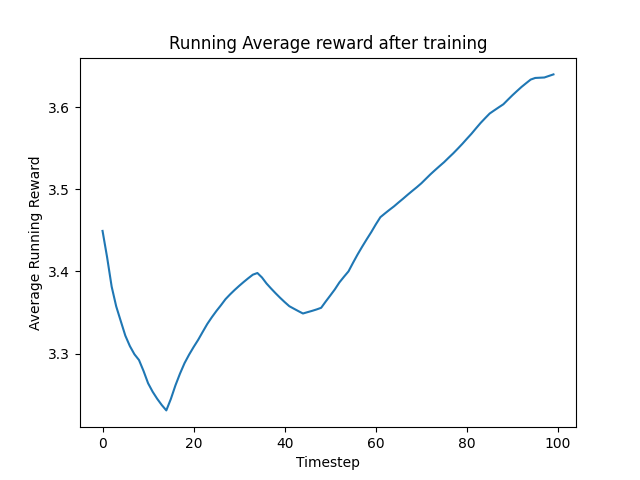
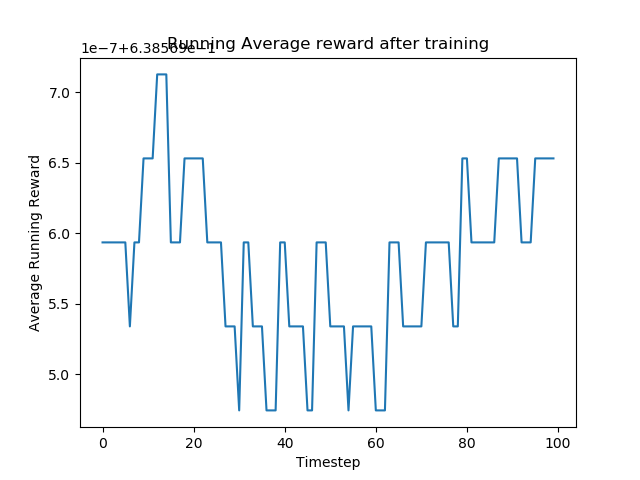
save model and reward function

diff --git a/src/main/agents/dqn_agent.py b/src/main/agents/dqn_agent.py
@@ -24,20 +24,29 @@ def train_dqn(env, train_steps=2000):
     # env = Monitor(env, "./logs")
     model = DQN(MlpPolicy, env=env, _init_setup_model=True, verbose=1, exploration_fraction=0.1,
                 tensorboard_log=log_dir)
-    # evaluate before training
-    _, all_rewards = evaluate(model)
-    plot_moving_avg(np.array(all_rewards), title="Running Average reward before training - DQN")
+    # # evaluate before training
+    # _, all_rewards = evaluate(model)
+    # plot_moving_avg(np.array(all_rewards), title="Running Average reward before training - DQN")
 
     start = time.time()
     model.learn(total_timesteps=train_steps)
     end = time.time()
     print("Training Time: {}".format(end - start))
 
-    model.save("./saved_models/dqn")
+    model.save("./saved_models/dqn", cloudpickle=True)
 
     # evaluate after training
+    print("EVALUATING AGENT")
     start = time.time()
     _, all_rewards = evaluate(model)
+    end = time.time()
+    print("Running time per episode: {}".format((end - start) / 100))
+
+    print("From saved model")
+    model = DQN.load("./saved_models/dqn", env=env)
+
+    start = time.time()
+    _, all_rewards = evaluate(model, num_episodes=100)
     end = time.time()
     print("Running time per time step: {}".format((end - start) / 100))
 

diff --git a/src/main/agents/a2c_agent.py b/src/main/agents/a2c_agent.py
@@ -12,7 +12,7 @@
 
 # from stable_baselines.common.vec_env import DummyVecEnv
 # from stable_baselines.deepq.policies import MlpPolicy, CnnPolicy
-from stable_baselines.common.policies import MlpPolicy
+from stable_baselines.common.policies import MlpPolicy, ActorCriticPolicy
 from stable_baselines import DQN, A2C
 from src.main.env.environment import Environment
 # from stable_baselines.bench import Monitor
@@ -46,6 +46,15 @@ def train_a2c(env, train_steps=1000):
     end = time.time()
     print("Running time per time step: {}".format((end - start) / 100))
     # print(all_rewards)
+
+    print("From saved model")
+    model = A2C.load("./saved_models/dqn", env=env)
+    model.setup_model()
+
+    start = time.time()
+    _, all_rewards = evaluate(model, num_episodes=100)
+    end = time.time()
+    print("Running time per time step: {}".format((end - start) / 100))
 
     plot_moving_avg(np.array(all_rewards), title="Running Average reward after training")
 

diff --git a/src/main/agents/final_actions.py b/src/main/agents/final_actions.py
@@ -10,6 +10,7 @@
 from stable_baselines import DQN, A2C, PPO2
 from src.main.util.model_utils import evaluate
 from src.main.env.environment import Environment
+import time
 
 
 def test_rl_agent(agent, environment):
@@ -25,11 +26,10 @@ if __name__ == '__main__':
     print("INPUTS: {}".format(obs))
     done = False
 
-    while not done:
-        action, _states = model.predict(obs)
-        next_obs, reward, done, info = env.step(action)
+    start = time.time()
+    _, all_rewards = evaluate(model, num_episodes=100)
+    end = time.time()
+    print("Running time per time step: {}".format((end - start) / 100))
 
-    if done:
-
-        print("OUPUT: {}".format(next_obs))
-        print("REWARD: {}".format(reward))
+    # print("OUTPUT: {}".format(next_obs))
+    # print("REWARD: {}".format(reward))

diff --git a/src/main/env/environment.py b/src/main/env/environment.py
@@ -81,7 +81,7 @@ class Environment(gym.Env):
             self.num_actions += 1
 
         self.done = True
-        return obs, reward , self.done, {}
+        return obs, reward, self.done, {}
 
     def reset(self):
         # Reset the state of the environment to an initial state
@@ -165,7 +165,7 @@ class Environment(gym.Env):
 
         if not ((power_values_from_dlf.min() > 0.9 and power_values_from_dlf.max() < 1.1)):
             print("values of max and min outside range")
-            return -30
+            return -np.sum(self.load_data[:, 3])
 
         print(status_reward)    # divide by num_actions which is the number of episodes
         return status_reward
